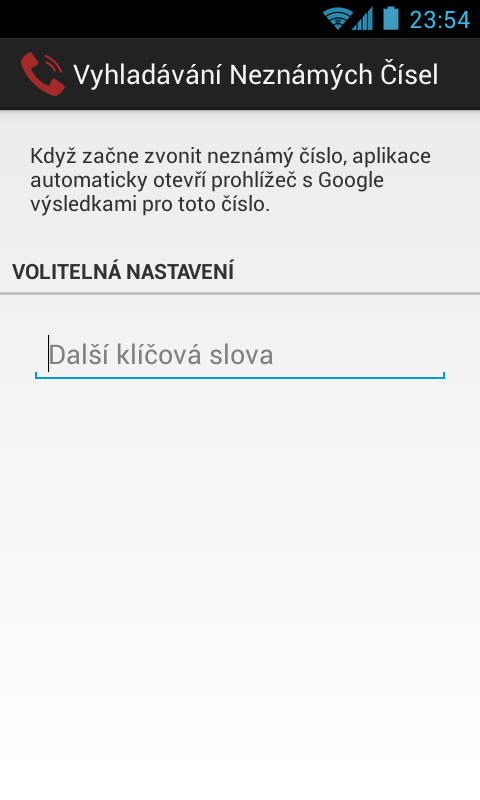
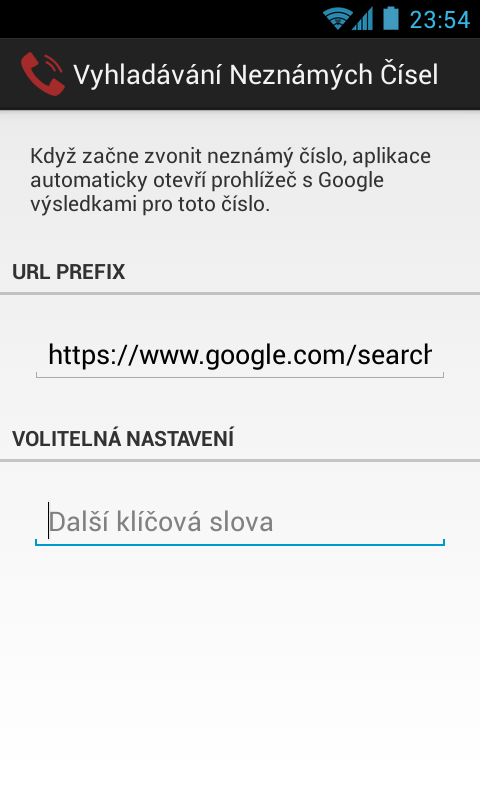
added an option to use different search engine than Google

diff --git a/src/net/matmas/unknowncallerlookup/MainActivity.java b/src/net/matmas/unknowncallerlookup/MainActivity.java
@@ -1,5 +1,8 @@
 package net.matmas.unknowncallerlookup;
 
+import java.util.HashMap;
+import java.util.Map;
+
 import android.app.Activity;
 import android.content.SharedPreferences;
 import android.os.Bundle;
@@ -10,23 +13,33 @@ import android.widget.EditText;
 
 public class MainActivity extends Activity {
 
+	public static String SEARCH_SUFFIX = "search_suffix";
+	public static String URL_PREFIX = "url_prefix";
+	
 	@Override
 	protected void onCreate(Bundle savedInstanceState) {
 		super.onCreate(savedInstanceState);
 		setContentView(R.layout.activity_main);
 		
-		final EditText searchPattern = (EditText) findViewById(R.id.searchSuffix);
-		searchPattern.setText(loadSearchSuffix());
+		Map<String, Integer> fields = new HashMap<String, Integer>();
+		fields.put(SEARCH_SUFFIX, R.id.search_suffix);
+		fields.put(URL_PREFIX, R.id.url_prefix);
 		
-		searchPattern.addTextChangedListener(new TextWatcher() {
-			public void onTextChanged(CharSequence searchPattern, int arg1, int arg2, int arg3) {
-				saveSearchSuffix(searchPattern.toString());
-			}
-			public void beforeTextChanged(CharSequence arg0, int arg1, int arg2, int arg3) {
-			}
-			public void afterTextChanged(Editable arg0) {
-			}
-		});
+		for (final String key : fields.keySet()) {
+			int id = fields.get(key);
+			final EditText searchSuffix = (EditText) findViewById(id);
+			
+			searchSuffix.setText(load(key));
+			searchSuffix.addTextChangedListener(new TextWatcher() {
+				public void onTextChanged(CharSequence searchPattern, int arg1, int arg2, int arg3) {
+					save(key, searchPattern.toString());
+				}
+				public void beforeTextChanged(CharSequence arg0, int arg1, int arg2, int arg3) {
+				}
+				public void afterTextChanged(Editable arg0) {
+				}
+			});
+		}
 	}
 
 	@Override
@@ -36,12 +49,16 @@ public class MainActivity extends Activity {
 		return false;
 	}
 
-	public static String loadSearchSuffix() {
-		return getPreferences().getString("search_suffix", "");
+	public static String load(String what) {
+		String defaultValue = "";
+		if (what.equals(URL_PREFIX)) {
+			defaultValue = "https://www.google.com/search?q=";
+		}
+		return getPreferences().getString(what, defaultValue);
 	}
 	
-	private void saveSearchSuffix(String searchPattern) {
-		getPreferences().edit().putString("search_suffix", searchPattern).commit();
+	private void save(String what, String value) {
+		getPreferences().edit().putString(what, value).commit();
 	}
 	
 	private static SharedPreferences getPreferences() {

diff --git a/src/net/matmas/unknowncallerlookup/receivers/CallReceiver.java b/src/net/matmas/unknowncallerlookup/receivers/CallReceiver.java
@@ -77,11 +77,14 @@ public class CallReceiver extends BroadcastReceiver {
 			new Handler().postDelayed(new Runnable() {
 				@SuppressWarnings("deprecation")
 				public void run() {
-					String URL = "https://www.google.com/search?q=" + URLEncoder.encode(incomingNumber);
-					String suffix = MainActivity.loadSearchSuffix();
+					String prefix = MainActivity.load(MainActivity.URL_PREFIX);
+					String suffix = MainActivity.load(MainActivity.SEARCH_SUFFIX);
+					
+					String URL = prefix + URLEncoder.encode(incomingNumber);
 					if ( !suffix.equals("")) {
 						URL += URLEncoder.encode(" " + suffix);
 					}
+					
 					Intent browserIntent = new Intent(Intent.ACTION_VIEW, Uri.parse(URL));
 					browserIntent.addFlags(Intent.FLAG_ACTIVITY_NEW_TASK); // because we are not calling it from an activity
 					Log.d(TAG, "starting activity");
